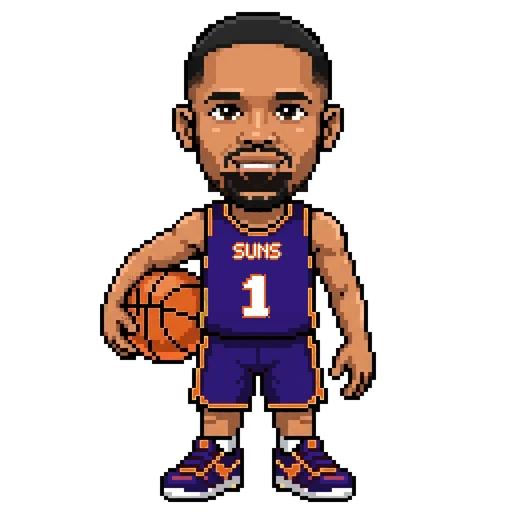
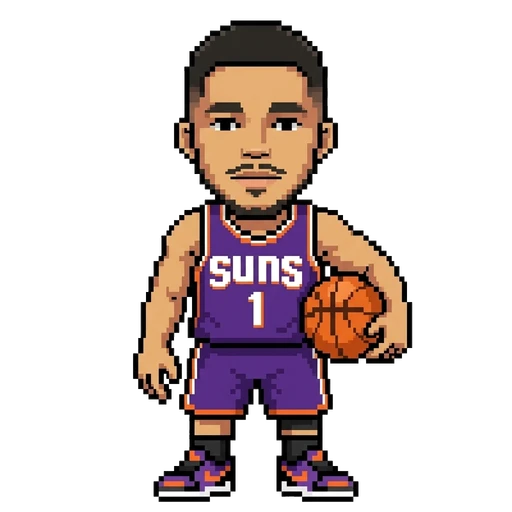
Portraits + Stats head-zoom

diff --git a/site/public/site.css b/site/public/site.css
@@ -168,6 +168,8 @@ iframe.looker { width: 100%; height: max(480px, calc(100dvh - 190px)); border: 1
 .pt .who { position: sticky; left: 0; z-index: 1; min-width: 210px; max-width: 260px; text-align: left; font-weight: 400; }
 .pt thead .who { z-index: 3; }
 .pt .face { width: 30px; height: 30px; border-radius: 50%; object-fit: cover; object-position: 50% 12%; background: rgb(127 127 127 / .15); }
+/* Cartoon portrait icon: zoom the full-body sprite so the circle shows the head (any icon size) */
+span.face.portrait { display: block; background-size: 260%; background-position: 50% 4%; background-repeat: no-repeat; }
 .pt .who a { display: grid; grid-template-columns: 30px 30px 30px minmax(0, 1fr); gap: 6px; align-items: center; color: inherit; text-decoration: none; }
 .pt .who .nm { display: grid; white-space: normal; line-height: 1.2; }
 .pt .who .pill { justify-self: start; font-size: 11px; padding: 3px 6px; }
@@ -315,12 +317,11 @@ iframe.looker { width: 100%; height: max(480px, calc(100dvh - 190px)); border: 1
 .spotlight .sp-name { margin: 6px 0 0; font: 800 24px/1.1 var(--display); text-transform: uppercase; }
 .spotlight .sp-name a { color: var(--ink); text-decoration: none; }
 .sp-links { display: flex; flex-wrap: wrap; gap: 10px; align-items: center; }
-/* Team mascots: all 7 in two rows (4 + 3). */
-@media (max-width: 640px) {   /* phones: smaller mascots */
-  #gp-wall .gp-mascot { --gp-size: 56px; padding: 8px 4px; gap: 4px; border-radius: 10px; }
-  #gp-wall .gp-mascot .gp-stage { width: 56px; height: 56px; }
-  #gp-wall .gp-mascot b { font-size: 11px; overflow-wrap: anywhere; }
-  #gp-wall .gp-mascot small { font-size: 10px; }
+/* Team mascots: all 7 in one row. */
+@media (max-width: 640px) {   /* phones: smaller mascots fit in one row at 375px */
+  #gp-wall { gap: 4px; }
+  #gp-wall .gp-mascot { --gp-size: 56px; padding: 0; gap: 3px; }
+  #gp-wall .gp-mascot .gp-stage { width: min(100%, 56px); height: auto; aspect-ratio: 1; }
 }
 /* Home: big ESPN buttons at the top of the left column. */
 .espn-btns { display: grid; grid-template-columns: repeat(2, minmax(0, 1fr)); gap: 8px; margin-top: 8px; }
@@ -367,12 +368,15 @@ button.link { background: none; border: 0; padding: 4px; color: var(--accent); t
 .cl-btn:hover, .cl-btn:focus-visible { color: var(--ink); border-color: var(--accent); }
 .card.collapsed { gap: 0; }
 .card.collapsed > :not(.cl-head):not(.cl-btn) { display: none !important; }
-/* Masco-Pets: the 7 mascots plus the "How pets work" card in the 8th spot. */
-.gp-wall-grid { display: grid; grid-template-columns: repeat(4, minmax(0, 1fr)); gap: 10px; }
+/* Masco-Pets: the 7 mascots side by side in one row, plus the "How pets work" card in the 8th spot. */
+.gp-wall-grid { display: grid; grid-template-columns: repeat(7, minmax(0, 1fr)) minmax(180px, 1.4fr); gap: 8px; align-items: center; }
 .gp-wall-grid > #gp-wall { display: contents; }
 .gp-key { display: grid; gap: 6px; align-content: center; padding: 12px; border: 1px dashed var(--line); border-radius: 14px; color: var(--muted); line-height: 1.35; }
 .gp-key b { color: var(--ink); font-family: var(--display); text-transform: uppercase; letter-spacing: .03em; }
-@media (max-width: 640px) { .gp-wall-grid { gap: 6px; } .gp-key { font-size: 12px; padding: 8px; } }
+@media (max-width: 900px) {
+  .gp-wall-grid { grid-template-columns: repeat(7, minmax(0, 1fr)); gap: 4px; }
+  .gp-key { grid-column: 1 / -1; font-size: 12px; padding: 8px; margin-top: 4px; }
+}
 /* Side column poll (only while a poll is open). */
 .active-poll .poll { padding: 12px; }
 /* ---------- Stats page: one section, plain rows (no glow), advanced settings ---------- */
@@ -436,30 +440,40 @@ dialog.pick-team::backdrop { background: rgb(0 0 0 / .6); }
 .inj-line .inj-what { color: var(--bad); }
 
 /* Home: Upcoming games (Lineups merged in, schedule.js). One row of player tiles per team per day. */
-#upcoming .tv-tabs { display: flex; gap: 6px; padding: 0; margin: 0; }
+#upcoming .sec-head { align-items: center; justify-content: flex-start; gap: 8px 12px; }
+#upcoming .tv-tabs { display: flex; flex-wrap: wrap; gap: 6px; padding: 0; margin: 0; }
+#upcoming-all { margin-left: auto; }
 #upcoming .day-tab { min-width: 0; height: auto; padding: 5px 12px; border: 2px solid var(--accent); border-radius: 999px;
   background: transparent; color: var(--ink); font: 700 13px/1 var(--display); text-transform: uppercase; letter-spacing: .04em; }
 #upcoming .day-tab[aria-selected="true"] { background: transparent; color: var(--accent); text-decoration: underline 3px; text-underline-offset: 4px; }
-.lu-day { font-size: 14px; margin: 6px 0 4px; }
+.lu-day { font-size: 14px; margin: 2px 0 4px; }
 .lu-team + .lu-team { margin-top: 8px; }
 .lu-team-name { margin: 0 0 2px; color: var(--muted); font-weight: 600; }
-.lu-row { display: flex; gap: 6px; overflow-x: auto; padding-bottom: 4px; scrollbar-width: thin; }
-.lu-tile { flex: none; width: 56px; display: grid; justify-items: center; gap: 1px; text-decoration: none; color: var(--ink); border-radius: 8px; padding: 3px 2px;
+.lu-row { --lu-pic: 96px; display: flex; flex-wrap: wrap; gap: 6px; }
+.lu-tile { flex: none; width: calc(var(--lu-pic) + 8px); display: grid; justify-items: center; gap: 2px; text-decoration: none; color: var(--ink); border-radius: 8px; padding: 4px 2px;
   border: 1px solid var(--line); background: var(--surface); }
 .lu-tile.bench { background: color-mix(in srgb, var(--accent) 16%, var(--surface)); border-color: var(--accent); }
 .lu-tile.off { opacity: .5; }
 .lu-tile.hurt .lu-pic img { filter: grayscale(.6); }
-.lu-pic { position: relative; width: 48px; height: 48px; border-radius: 50%; overflow: hidden; background: var(--line); display: grid; place-items: center; }
+.lu-pic { position: relative; width: var(--lu-pic); height: var(--lu-pic); border-radius: 50%; overflow: hidden; background: var(--line); display: grid; place-items: center; }
 .lu-pic img { width: 100%; height: 100%; object-fit: cover; object-position: top; }
-.lu-init { font: 700 18px/1 var(--display); color: var(--muted); }
-.lu-icon { font-size: 26px; }
+.lu-init { font: 700 22px/1 var(--display); color: var(--muted); }
+.lu-icon { font-size: 30px; }
 .lu-avg { position: absolute; bottom: 0; left: 0; right: 0; text-align: center; font: 700 11px/1.3 var(--body); background: rgb(0 0 0 / .65); color: #fff; }
-.lu-ir { position: absolute; inset: 0; display: grid; place-items: center; font-size: 30px; background: rgb(0 0 0 / .35); }
-.lu-hurt { position: absolute; top: 0; right: 2px; font-size: 15px; }
+.lu-ir { position: absolute; inset: 0; display: grid; place-items: center; font-size: 34px; background: rgb(0 0 0 / .35); }
+.lu-hurt { position: absolute; top: 2px; right: 4px; font-size: 16px; }
 .lu-slot { font: 700 10px/1 var(--display); text-transform: uppercase; letter-spacing: .03em; color: var(--muted); }
-.lu-name { font-size: 11px; line-height: 1.1; max-width: 54px; overflow: hidden; text-overflow: ellipsis; white-space: nowrap; }
+.lu-name { font-size: 12px; line-height: 1.1; max-width: calc(var(--lu-pic) + 4px); overflow: hidden; text-overflow: ellipsis; white-space: nowrap; }
 .lu-tool { border-style: dashed; }
 .lu-tool .lu-pic { background: transparent; }
+@media (max-width: 640px) {
+  .lu-row { --lu-pic: 56px; gap: 4px; }
+  .lu-init { font-size: 18px; }
+  .lu-icon { font-size: 26px; }
+  .lu-ir { font-size: 30px; }
+  .lu-hurt { top: 0; right: 2px; font-size: 15px; }
+  .lu-name { font-size: 11px; }
+}
 /* Player page (Jason 2026-10-28): condensed card + Points standings + Power rankings on the left, How he scores on the right. */
 .pl-layout { display: grid; grid-template-columns: minmax(0, 560px) minmax(0, 1fr); gap: 16px; align-items: start; }
 .pl-left, .pl-right { display: grid; gap: 16px; min-width: 0; }

diff --git a/site/public/pet/pet-wall.js b/site/public/pet/pet-wall.js
@@ -14,16 +14,15 @@
     const power = egg ? 0 : Math.round(Number(r.power) || 0), fire = !egg && live(r.fire_until), sup = !egg && (power >= max || live(r.super_until));
     const dunk = (C.meters && C.meters.power && C.meters.power.icon) || "🤾";
     const status = egg ? "🥚 Not hatched yet" : fire && sup ? "🦸 Superman fire mode!" : sup ? "🌟 Super Saiyan" : fire ? "🔥 On Fire" : `${dunk} ${power} / ${max}`;
-    // Average 🏀 per week since the pet first hatched (younger than a week counts as one week).
-    const born = Number(r.born_at) || now, pw = Math.round((Number(r.points) || 0) / Math.max(1, (now - born) / 6.048e8));
+    const mode = fire && sup ? "🔥🌟" : sup ? "🌟" : fire ? "🔥" : "";
+    const sprite = egg
+      ? `<span class="gp-egg-wall" aria-hidden="true">🥚</span>`
+      : `<span class="gp-sprite"><span class="gp-aura"></span><span class="gp-flames"><i></i><i></i><i></i><i></i></span>
+          <img alt="${esc(r.team_name)} masco-pet" src="/pet/sprites/${esc(r.abv)}-anim.webp" onerror="if(this.src.endsWith('-anim.webp'))this.src='/pet/sprites/${esc(r.abv)}.png';else this.parentNode.classList.add('gp-noart')"></span>`;
     return `<div class="gp-mascot gp-visitable${fire ? " gp-fire" : ""}${sup ? " gp-super" : ""}" role="button" tabindex="0" data-visit="${esc(r.abv)}"
-      aria-label="Visit ${esc(r.team_name)}'s masco-pet">
-      <span class="gp-stage"><span class="gp-sprite" data-anim="idle"><span class="gp-aura"></span><span class="gp-flames"><i></i><i></i><i></i><i></i></span>
-        <img alt="${esc(r.team_name)} masco-pet" src="/pet/sprites/${esc(r.abv)}.png" onerror="this.parentNode.classList.add('gp-noart')"></span></span>
-      <b>${esc(r.team_name)}</b>
-      <span class="gp-bar" aria-hidden="true"><i style="width:${Math.min(100, Math.round((power / max) * 100))}%"></i></span>
-      <small>${status}</small>
-      ${pw > 0 ? `<span class="gp-pw" title="Average 🏀 points per week">[${pw}🏀/w]</span>` : ""}</div>`;
+      title="${esc(r.team_name)} · ${status}" aria-label="Visit ${esc(r.team_name)}'s masco-pet (${status})">
+      <span class="gp-stage">${sprite}${mode ? `<span class="gp-mode" aria-hidden="true">${mode}</span>` : ""}</span>
+      <span class="gp-bar" aria-hidden="true"><i style="width:${Math.min(100, Math.round((power / max) * 100))}%"></i></span></div>`;
   }).join("");
   card.hidden = false;
   // Tap a mascot to visit it (practice mode, see pet.js).

diff --git a/site/public/pet/pet.css b/site/public/pet/pet.css
@@ -205,15 +205,20 @@
 @keyframes gp-superman { from { box-shadow: 0 0 0 3px #ffd84a, 0 0 14px 2px rgb(127 212 255 / .6); } to { box-shadow: 0 0 0 3px #fff, 0 0 26px 8px rgb(255 140 0 / .7); } }
 .gp-sprite[data-anim="cheer"] img { animation: gp-jump .4s ease-out 3; }
 
-/* Mascot wall (home page) */
-.gp-wall { display: grid; grid-template-columns: repeat(auto-fill, minmax(140px, 1fr)); gap: 14px; }
+/* Mascot wall (home page): all pets side by side in one row, no individual card around each pet */
+.gp-wall { display: flex; flex-wrap: nowrap; align-items: flex-end; justify-content: space-between; gap: 8px; }
 .gp-wall[hidden] { display: none; }
-.gp-mascot { display: grid; justify-items: center; gap: 6px; padding: 12px 8px; border-radius: 14px; background: var(--bg, #f3f4f1); border: 1px solid var(--line, #d9ddd6); text-align: center; --gp-size: 96px; }
-.gp-mascot .gp-stage { width: 96px; height: 96px; position: relative; }
-.gp-mascot b { font: 800 16px/1.1 var(--display, sans-serif); text-transform: uppercase; }
-.gp-mascot .gp-bar { width: 100%; }
-.gp-mascot small { color: var(--muted, #5d6670); font-size: 12px; }
-.gp-mascot .gp-sprite[data-anim="idle"] img { animation: gp-bob 1.8s ease-in-out infinite; }
+.gp-mascot { flex: 1 1 0; min-width: 0; display: grid; justify-items: center; gap: 4px; padding: 0; background: none; border: 0; border-radius: 0; text-align: center; --gp-size: 96px; }
+.gp-mascot .gp-stage { width: min(100%, var(--gp-size)); aspect-ratio: 1; height: auto; position: relative; display: grid; place-items: center; }
+.gp-mascot .gp-egg-wall { font-size: calc(var(--gp-size, 64px) * .55); line-height: 1; animation: gp-wobble 1.4s ease-in-out infinite; }
+.gp-mascot .gp-mode { position: absolute; top: -4px; right: -2px; z-index: 3; font-size: 14px; line-height: 1; filter: drop-shadow(0 1px 2px rgb(0 0 0 / .45)); pointer-events: none; }
+.gp-mascot .gp-bar { width: min(100%, 72px); height: 6px; border-radius: 3px; }
+.gp-mascot .gp-bar i { background: linear-gradient(90deg, #f2b632, #d23a2c); }
+@media (max-width: 640px) {
+  .gp-mascot { --gp-size: 56px; gap: 3px; }
+  .gp-mascot .gp-mode { font-size: 11px; top: -2px; right: -2px; }
+  .gp-mascot .gp-bar { height: 5px; }
+}
 
 @media (max-width: 520px) { .gp-answers { grid-template-columns: 1fr; } }
 @media (prefers-reduced-motion: reduce) {

diff --git a/site/public/schedule.js b/site/public/schedule.js
@@ -4,7 +4,6 @@
 // lineup tile (that team's ESPN lineup for that day) and a Trades tile. Shows the picked team; "All teams" expands.
 document.addEventListener("DOMContentLoaded", () => {
   const sec = document.getElementById("upcoming");
-  const sub = document.getElementById("upcoming-sub");
   const box = document.getElementById("upcoming-days");
   const tabs = document.getElementById("tv-tabs");
   const allBtn = document.getElementById("upcoming-all");
@@ -28,7 +27,7 @@ document.addEventListener("DOMContentLoaded", () => {
     const bench = s === "BE" || s === "UTIL";
     const cls = ["lu-tile", bench && "bench", p.hurt && "hurt", s === "IR" && "ir", !playing && "off"].filter(Boolean).join(" ");
     const pic = p.img
-      ? `<img src="${esc(p.img)}" alt="" loading="lazy" width="64" height="64">`
+      ? `<img src="${esc(p.img)}" alt="" loading="lazy" width="96" height="96">`
       : `<span class="lu-init" aria-hidden="true">${esc(p.name.split(" ").map((w) => w[0]).join("").slice(0, 2))}</span>`;
     const note = s === "IR" ? "On IR" : p.hurt ? `Injured${p.injury_note ? ": " + p.injury_note : ""}` : playing ? "Plays" : "No game";
     return `<a class="${cls}" href="/player/${encodeURIComponent(p.id)}" title="${esc(p.name)} · ${esc(s)} · ${esc(note)}">
@@ -77,8 +76,7 @@ document.addEventListener("DOMContentLoaded", () => {
     const q = showAll ? "all" : team;
     if (allBtn) { allBtn.textContent = showAll ? "Just my team" : "All teams"; allBtn.hidden = !team && showAll; }
     box.innerHTML = ""; data = null;
-    if (!q) { sub.textContent = "Pick your team at the top, or see all teams."; return; }
-    sub.textContent = `${showAll ? "All teams" : window.BL.teamName(team)} · next ${DAYS} days · times Central`;
+    if (!q) { box.innerHTML = '<p class="muted small">Pick your team at the top, or see all teams.</p>'; return; }
     try {
       const res = await fetch(`/api/lineup?team=${encodeURIComponent(q)}&days=${DAYS}`).then((r) => r.json());
       if (!res.ok) throw new Error(res.error);

diff --git a/site/public/stats.js b/site/public/stats.js
@@ -46,10 +46,11 @@
   const face = (r) => {
     if (!r.photo || !r.nba_id) return `<span class="face" aria-hidden="true"></span>`;
     const id = Number(r.nba_id);
-    const isPortrait = (data.portraitIds ?? []).includes(id);
-    const src = isPortrait ? `/img/players/portrait-${id}.webp`
-      : `https://cdn.nba.com/headshots/nba/latest/260x190/${id}.png`;
-    return `<img class="face" src="${src}" alt="" width="30" height="30" loading="lazy"${isPortrait ? "" : ` onerror="this.style.visibility='hidden'"`}>`;
+    // Portraits are full-body sprites, so they are drawn as a zoomed background that shows just the head
+    // (site.css .face.portrait); headshots stay plain images.
+    if ((data.portraitIds ?? []).includes(id))
+      return `<span class="face portrait" style="background-image:url('/img/players/portrait-${id}.webp')" aria-hidden="true"></span>`;
+    return `<img class="face" src="https://cdn.nba.com/headshots/nba/latest/260x190/${id}.png" alt="" width="30" height="30" loading="lazy" onerror="this.style.visibility='hidden'">`;
   };
   const mpg = (r) => (r.gp && n(r.t.min) != null ? n(r.t.min) / r.gp : null);
   // Places moved since the last run of the "Rank by" list (positive = up). null = no earlier list.

diff --git a/site/public/img/players/README.md b/site/public/img/players/README.md
@@ -41,3 +41,7 @@ Using Node.js and `sharp` (available in `site/node_modules`):
 2. Flood-fill from all 4 canvas edges through near-white background pixels (`min(R,G,B) >= 230` and `max(R,G,B) - min(R,G,B) <= 25`), setting `alpha = 0` (also clear any enclosed pure-white arm-torso background pocket if present).
 3. Run 2 passes along the transparent boundary to strip 1–2 px JPEG anti-alias gray halos (`min(R,G,B) >= 180` and `max - min <= 35` adjacent to transparent pixels) so the bold black pixel outline sits cleanly over both light and dark UI themes.
 4. Resize to `512x512` (`kernel: "lanczos3"`) and encode as WebP (`.webp({ quality: 90, alphaQuality: 100 })`), verifying dimensions (`512x512`), 4-channel RGBA transparency, and file size (`< 80 KB`).
+
+## Changelog
+
+- **Regenerated 2026-10-28:** Regenerated the 13 fallback portraits (`203999`, `1628983`, `1628389`, `1627750`, `1631105`, `1641708`, `1626164`, `2544`, `1628973`, `1629638`, `1627759`, `1628369`, `1630166`) directly with the image model and `sharp` post-processing pipeline so all 25 portraits form a uniform model-generated set.
